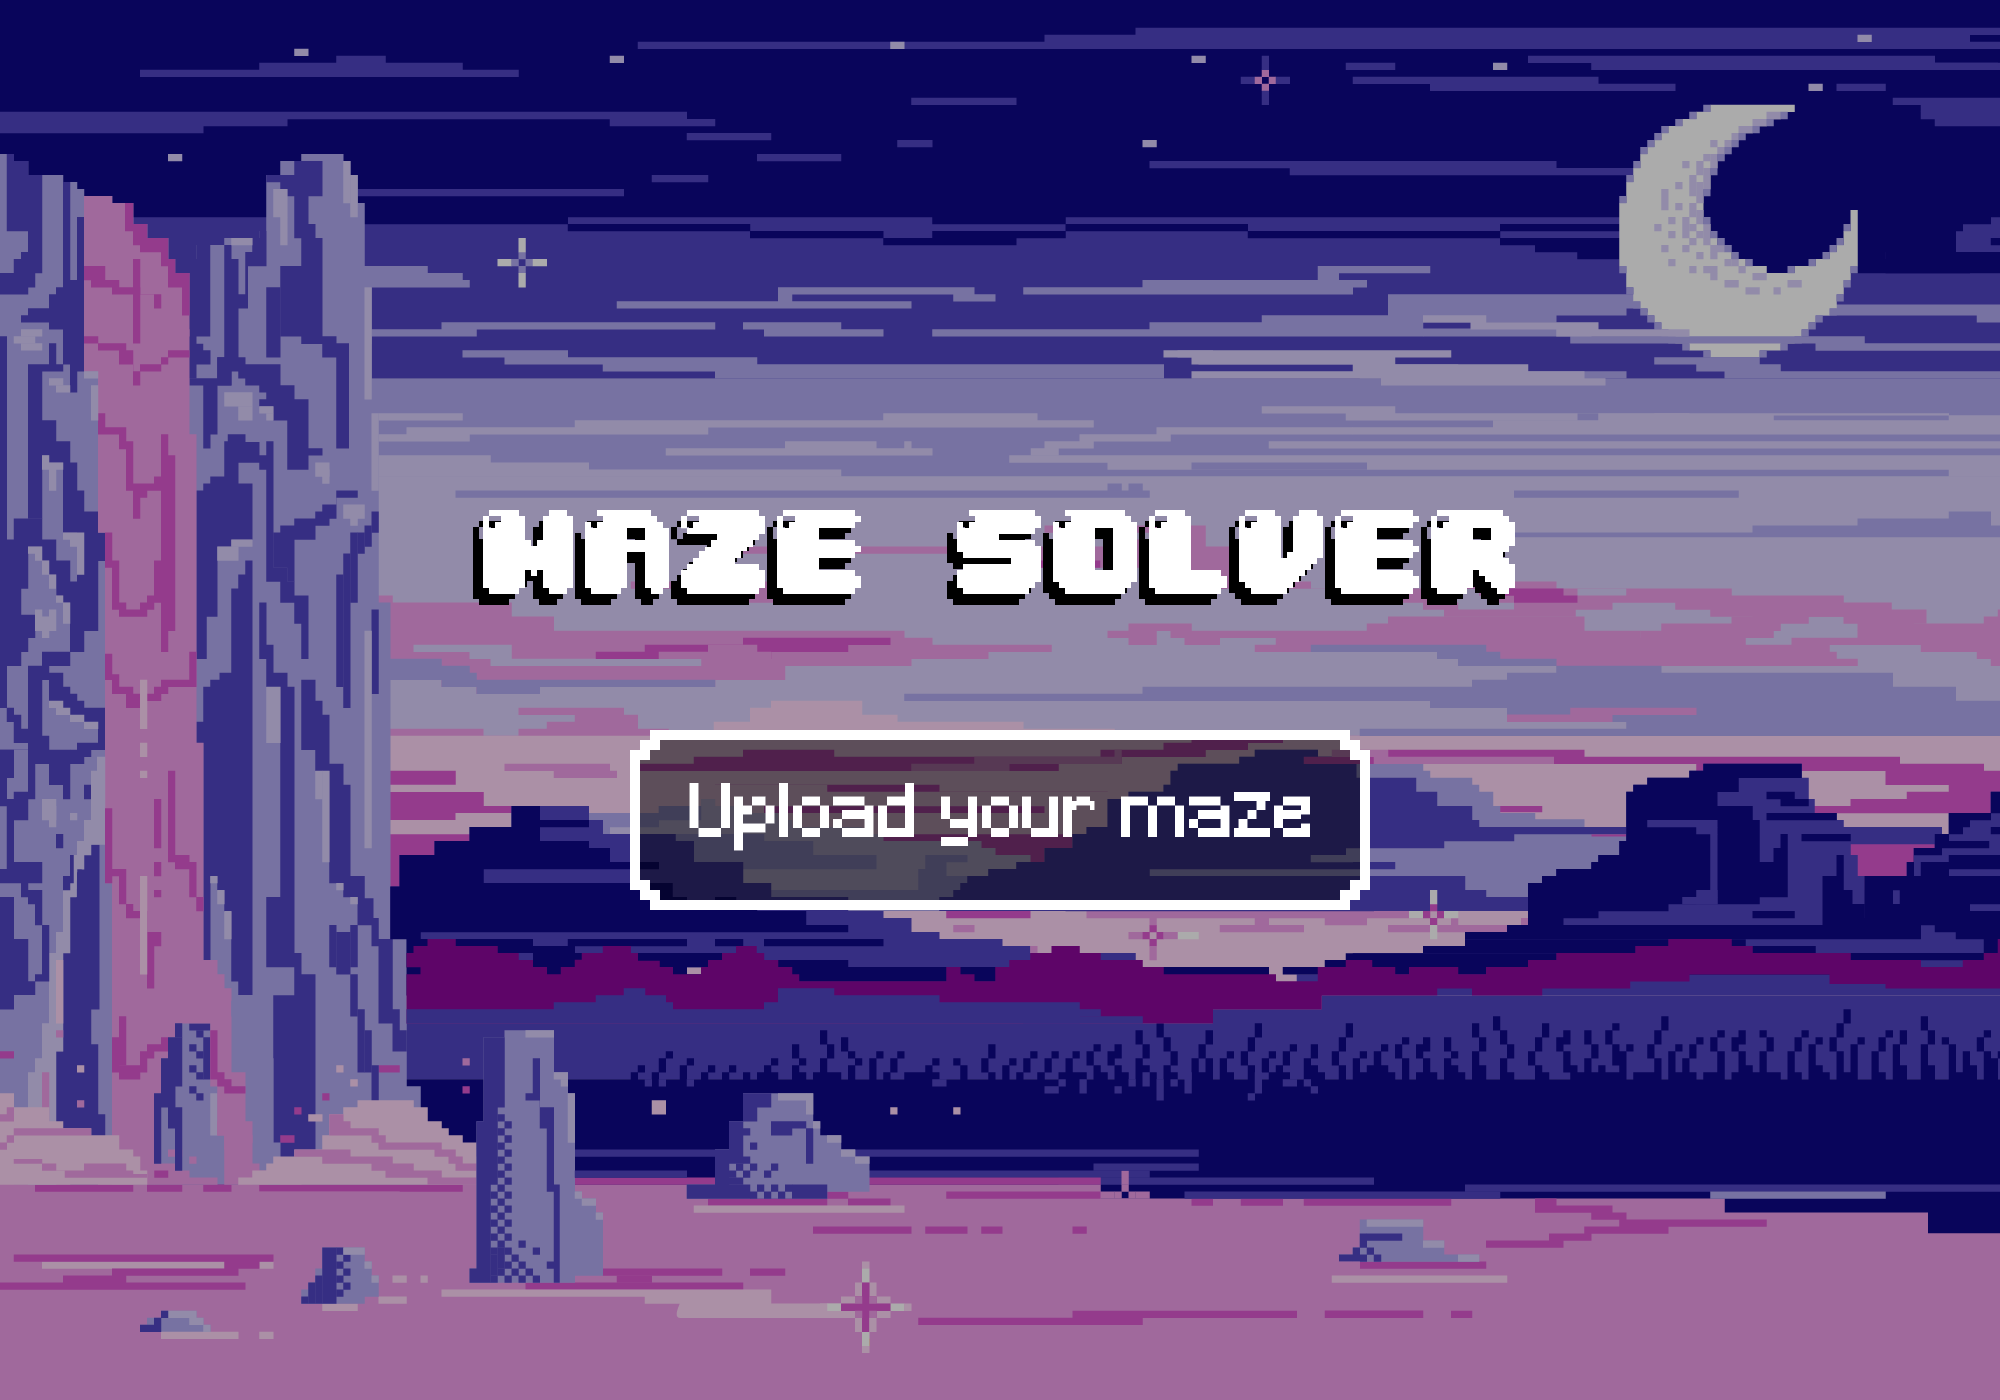
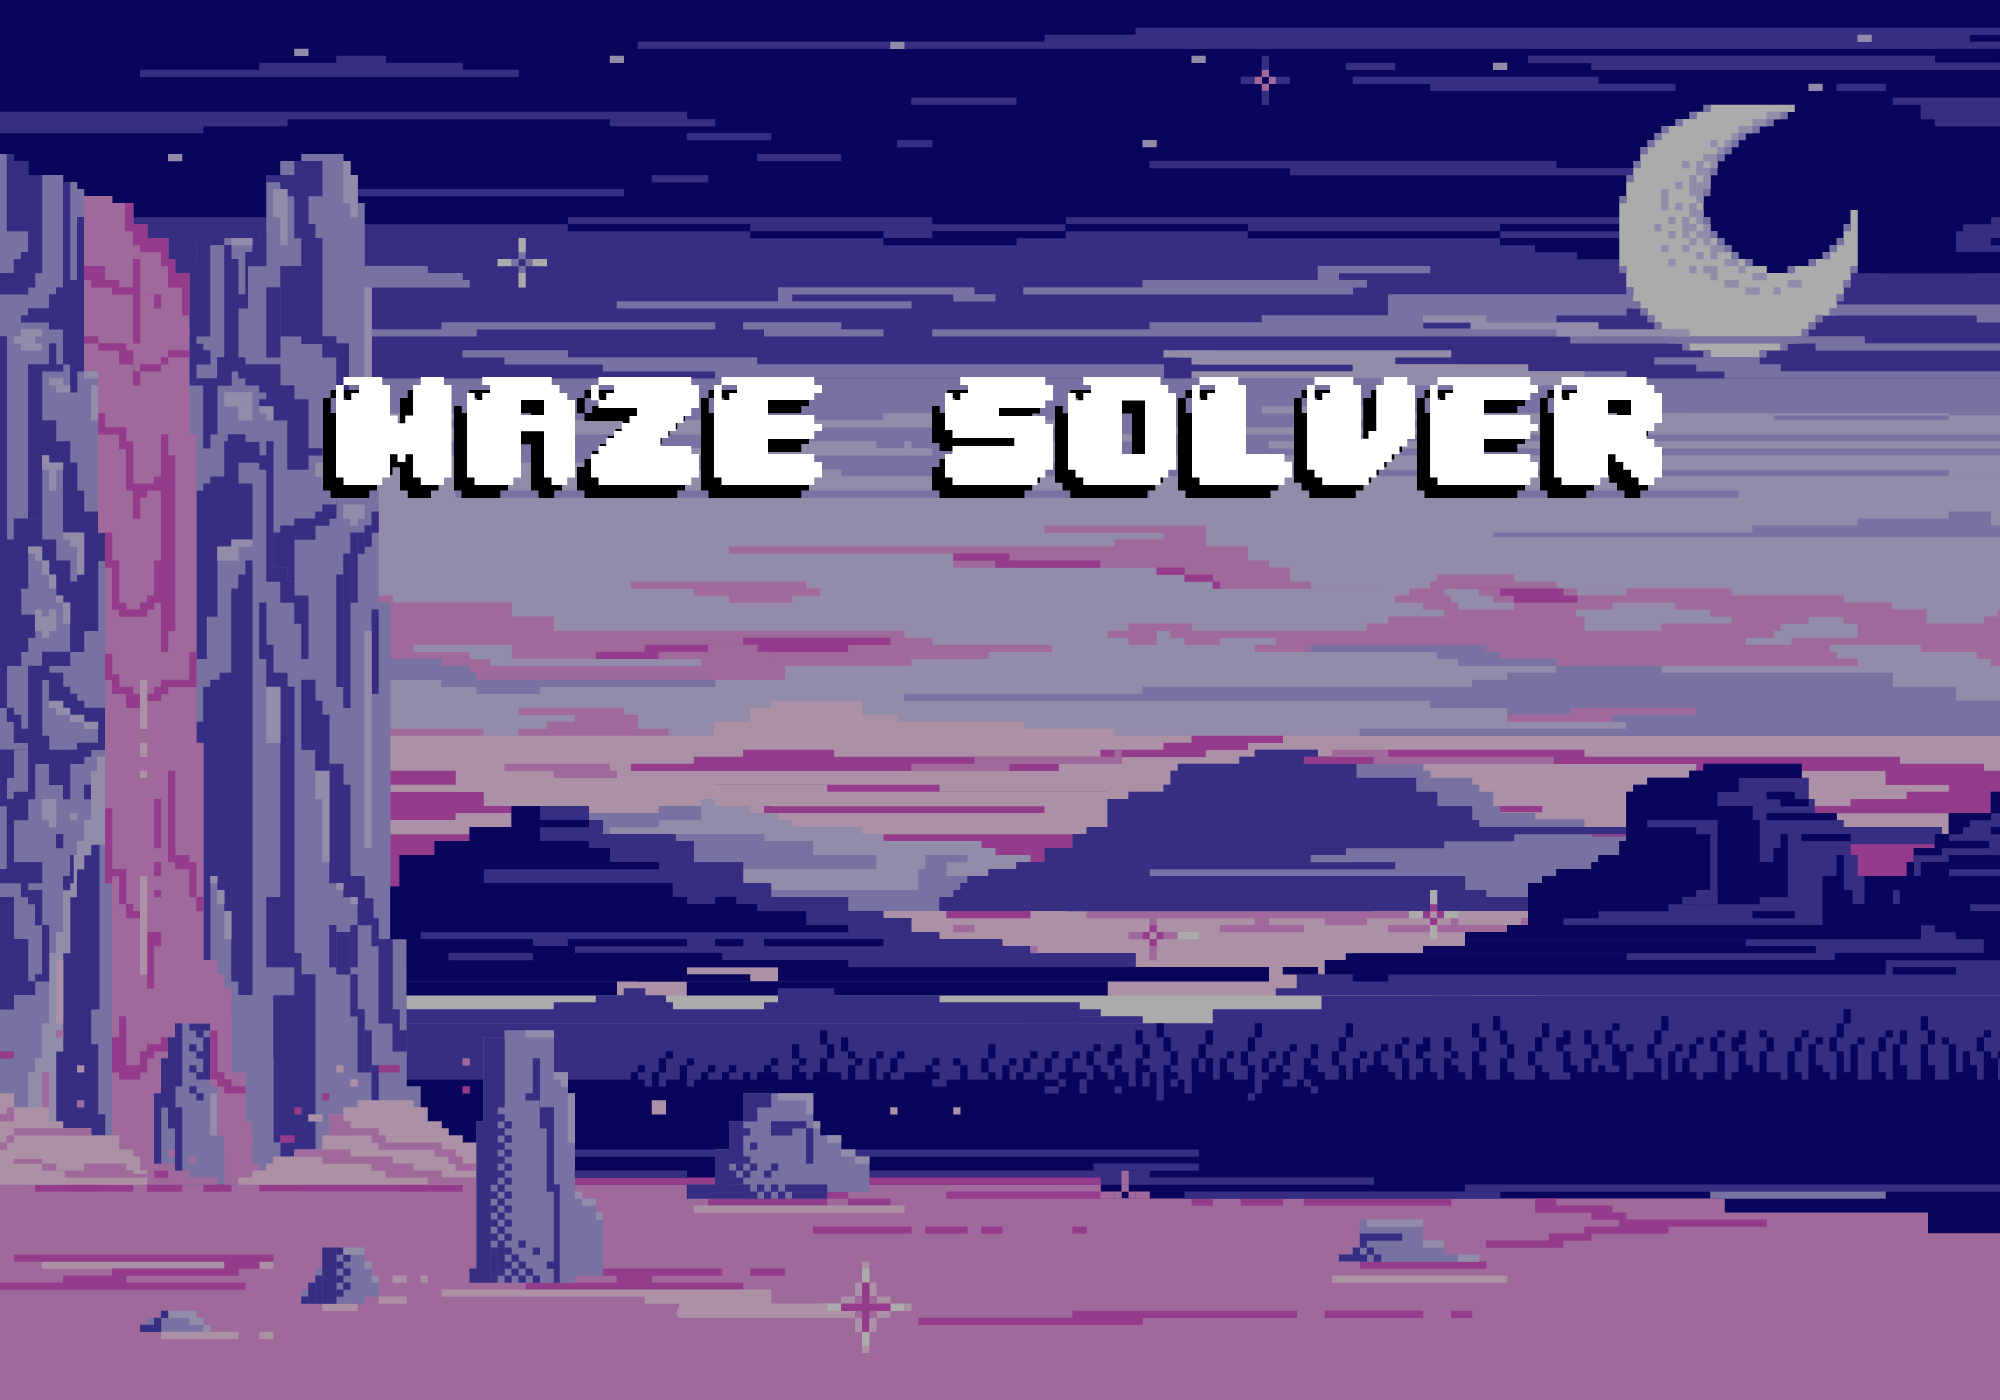
Connected views

Changed region(s): [[0.186, 0.5221, 1.0, 0.7371], [0.465, 0.2457, 0.837, 0.43], [0.155, 0.2457, 0.434, 0.43]]

diff --git a/mazesolver.py b/mazesolver.py
@@ -1,6 +1,8 @@
+from tkinter import E
 import pygame, sys, random
 from mazeprocess import *
-from colors import colors
+from data import *
+from button import Button
 
 size = (1000, 700)
 
@@ -9,13 +11,41 @@ class Game(object):
     
     def __init__(self):
         self.solved_maze = False
+        self.path = ''
+        self.solving = False
         self.page = 'home'              #posibles páginas: home, maze
-        self.solve_method =''           #posibles methods: a:anchura, ae:a*, bdcu:búsqeda de costo uniforme, bg:búsqueda greedy
+        self.solve_method =''          #posibles methods: a:anchura, ae:a*, bdcu:búsqeda de costo uniforme, bg:búsqueda greedy
                                         #p: profundidad, pi:profundidad iterativa, '': no se ha escogido
-        self.path = 'static/mazes/maze_50x50.csv'
-        self.m, self.n = maze_size(self.path)          #tamaño mxn del maze
-        self.cell_size, self.x_start, self.y_start = display_size(self.m, self.n)
-        self.color = random.choice(list(colors.keys()))
+        
+        ##Creamos todos los botones necesarios y los inicializamos
+        self.upload_maze = Button(images_data['upload_maze'][0], images_data['upload_maze'][1], 'upload_maze')
+        self.b_5x5 = Button(images_data['maze_size_buttons'][0], images_data['maze_size_buttons'][1][0], 'b_5x5')
+        self.b_10x10 = Button(images_data['maze_size_buttons'][0], images_data['maze_size_buttons'][1][1], 'b_10x10')
+        self.b_50x50 = Button(images_data['maze_size_buttons'][0], images_data['maze_size_buttons'][1][2], 'b_50x50')
+        self.b_100x100 = Button(images_data['maze_size_buttons'][0], images_data['maze_size_buttons'][1][3], 'b_100x100')
+        self.b_p = Button(images_data['menu_buttons'][0], images_data['menu_buttons'][1][0], 'b_p')
+        self.b_a = Button(images_data['menu_buttons'][0], images_data['menu_buttons'][1][1], 'b_a')
+        self.b_pi = Button(images_data['menu_buttons'][0], images_data['menu_buttons'][1][2], 'b_pi')
+        self.b_bdcu = Button(images_data['menu_buttons'][0], images_data['menu_buttons'][1][3], 'b_bdcu')
+        self.b_bg = Button(images_data['menu_buttons'][0], images_data['menu_buttons'][1][4], 'b_bg')
+        self.b_ae = Button(images_data['menu_buttons'][0], images_data['menu_buttons'][1][5], 'b_ae')
+        self.b_home = Button(images_data['home'][0], images_data['home'][1], 'b_home')
+        self.b_run = Button(images_data['runmaze'][0], images_data['runmaze'][1], 'b_run')
+        self.b_run.pressed(images_data['runmaze'][0], 'b_runpressed')
+        self.click_upload_maze = False
+        self.click_b_5x5 = False
+        self.click_b_10x10 = False
+        self.click_b_50x50 = False
+        self.click_b_100x100 = False
+        self.click_b_p = False
+        self.click_b_a = False
+        self.click_b_pi = False
+        self.click_b_bdcu = False
+        self.click_b_bg = False
+        self.click_b_ae = False
+        self.click_b_home = False
+        self.click_b_run = False
+        
 
     def process_events(self):
         for event in pygame.event.get():
@@ -26,16 +56,76 @@ class Game(object):
             if self.solved_maze:
                 if event.type == pygame.MOUSEBUTTONDOWN:
                     self.__init__()
+
+            #Si no se ha resuelto mira si algún botón válido ha sido presionado
+            if not self.solved_maze: 
+                  
+                if self.page == 'home':
+                    self.click_upload_maze = self.upload_maze.button_pressed(event)
+                    self.click_b_5x5 = self.b_5x5.button_pressed(event)
+                    self.click_b_10x10 = self.b_10x10.button_pressed(event)
+                    self.click_b_50x50 = self.b_50x50.button_pressed(event)
+                    self.click_b_100x100 = self.b_100x100.button_pressed(event)
+                    
+                elif self.page == 'maze':
+                    self.click_b_home = self.b_home.button_pressed(event)
+                    
+                    if self.solve_method == '':
+                        self.click_b_p = self.b_p.button_pressed(event)
+                        self.click_b_a = self.b_a.button_pressed(event)
+                        self.click_b_pi = self.b_pi.button_pressed(event)
+                        self.click_b_bdcu = self.b_bdcu.button_pressed(event)
+                        self.click_b_bg = self.b_bg.button_pressed(event)
+                        self.click_b_ae = self.b_ae.button_pressed(event)
+                    else:
+                        self.click_b_run = self.b_run.button_pressed(event) 
         return False
 
+    
     def run_logic(self):
 
         if not self.solved_maze:
             if self.page == 'home':
-                pass
+                if self.click_upload_maze or self.click_b_5x5 or self.click_b_10x10 or self.click_b_50x50 or self.click_b_100x100:
+                    if self.click_upload_maze:
+                        upload_maze()
+                        self.path = 'static/mazes/user_maze.csv'
+                    elif self.click_b_5x5:
+                        self.path = 'static/mazes/maze_5x5.csv'
+                    elif self.click_b_10x10:
+                        self.path = 'static/mazes/maze_10x10.csv'
+                    elif self.click_b_50x50:
+                        self.path = 'static/mazes/maze_50x50.csv'
+                    elif self.click_b_100x100:
+                        self.path = 'static/mazes/maze_100x100.csv'
+                        
+                    self.m, self.n = maze_size(self.path)          #tamaño mxn del maze
+                    self.cell_size, self.x_start, self.y_start = display_size(self.m, self.n)
+                    self.color = random.choice(list(colors.keys()))
+                    self.page = 'maze'
+                    
             elif self.page == 'maze':
-                pass
-
+                if self.click_b_home:
+                    self.__init__()
+                    
+                if self.solve_method == '':
+                    if self.click_b_p:
+                        self.solve_method = 'p'
+                    elif self.click_b_a:
+                        self.solve_method = 'a'
+                    elif self.click_b_pi:
+                        self.solve_method = 'pi'
+                    elif self.click_b_bdcu:
+                        self.solve_method = 'bdcu'
+                    elif self.click_b_bg:
+                        self.solve_method = 'bg'
+                    elif self.click_b_ae:
+                        self.solve_method = 'ae'
+                else:                        
+                    if self.click_b_run:
+                        self.solving = not self.solving
+    
+    
     def display_frame(self, screen):
 
         if self.solved_maze:
@@ -51,6 +141,11 @@ class Game(object):
                 home_view = pygame.image.load('static/images/home_view.png')
                 home_view = pygame.transform.scale(home_view, size)
                 screen.blit(home_view, [0, 0])
+                self.upload_maze.draw(screen)
+                self.b_5x5.draw(screen)
+                self.b_10x10.draw(screen)
+                self.b_50x50.draw(screen)
+                self.b_100x100.draw(screen)
                 
             elif self.page == 'maze':
             ##Mostramos el maze
@@ -61,6 +156,7 @@ class Game(object):
                 
                 #fondo
                 maze_draw(screen, self.color, self.path, self.cell_size, self.x_start, self.y_start)
+                self.b_run.draw_pressed(screen, self.solving)
                 
             ##Mostramos el menú si aún no se escogío un método
                 if self.solve_method == '':
@@ -68,15 +164,25 @@ class Game(object):
                     menu = pygame.image.load('static/images/menu.png')
                     menu = pygame.transform.scale(menu, size)
                     screen.blit(menu, [0, 0])
+                    self.b_p.draw(screen)
+                    self.b_a.draw(screen)
+                    self.b_pi.draw(screen)
+                    self.b_bdcu.draw(screen)
+                    self.b_bg.draw(screen)
+                    self.b_ae.draw(screen)
                     
             ##Si no mostramos el método escogido
                 else:
                     selected_method = pygame.image.load(f"static/images/resolverpor/{self.solve_method}.png")
-                    selected_method = pygame.transform.scale(selected_method, (245, 130))
-                    screen.blit(selected_method, [740, 156])
+                    selected_method = pygame.transform.scale(selected_method, images_data['selected_method'][0])
+                    screen.blit(selected_method, images_data['selected_method'][1])
+                
+                self.b_home.draw(screen)
             
         pygame.display.flip()
-
+    
+    
+                    
 
 def main():
     pygame.init()

diff --git a/button.py b/button.py
@@ -1,0 +1,49 @@
+from turtle import position
+import pygame
+
+#button class
+class Button():
+    
+	def __init__(self, size, position, image):
+        #cargar imagenes y escalarlas
+		self.position = position
+		self.button_view = pygame.image.load(f'static/images/botones/{image}.png')
+		self.button_view = pygame.transform.scale(self.button_view, size)
+		self.rect = self.button_view.get_rect()
+		self.rect.topleft = position
+		self.clicked = False
+
+	def pressed(self, size, image_pressed):
+		self.button_pressed_view = pygame.image.load(f'static/images/botones/{image_pressed}.png')
+		self.button_pressed_view = pygame.transform.scale(self.button_pressed_view, size)
+
+	def button_pressed(self, event):
+		action = False
+		#get mouse position
+		pos = pygame.mouse.get_pos()
+
+		#check mouseover and clicked conditions
+		if self.rect.collidepoint(pos):
+			if event.type == pygame.MOUSEBUTTONDOWN and self.clicked == False:
+				self.clicked = True
+				action = True
+
+		if pygame.mouse.get_pressed()[0] == 0:
+			self.clicked = False
+		
+		pressed = action
+		return action
+
+     
+	def draw(self, surface):
+		#draw button on screen
+		surface.blit(self.button_view, self.position)
+  
+	def draw_pressed(self, surface, pressed):
+		if pressed:
+			#draw button on screen
+			surface.blit(self.button_pressed_view, self.position)
+		else:
+			#draw button on screen
+			surface.blit(self.button_view, self.position)
+      

diff --git a/data.py b/data.py
@@ -1,0 +1,22 @@
+#Colores
+colors = {     
+                #line color        background      wall
+    'blue'     :[(156, 235, 252), (88, 202, 238), (57, 58, 140)], 
+    'green'    :[(213, 255, 254), (75, 244, 189), (40, 167, 142)], 
+    'pink'     :[(254, 209, 239), (254, 188, 235), (202, 76, 195)], 
+    #'yellow'  :[(255, 246, 178), (242, 208, 86), (209, 123, 15)], 
+    'purple'   :[(242, 193, 255), (205, 127, 247), (126, 52, 165)], 
+    'lightblue':[(236, 255, 255), (132, 248, 248), (36, 106, 129)], 
+}
+
+#Tamaño de las imágenes y posiciones
+images_data = {
+                  #display size   position
+    'background' : [(1000, 700), (0, 0)],       #home, menu, maze
+    'selected_method': [(245, 130), (740, 156)],
+    'upload_maze': [(370, 90), (315, 325)],
+    'maze_size_buttons':[(180, 90), [(110, 525), (310, 525), (510, 525), (710, 525)]], 
+    'menu_buttons': [(510, 50), [(245, 75), (245, 175), (245, 275), (245, 375), (245, 475), (245, 575)]], 
+    'runmaze': [(180, 45), (772, 302)], 
+    'home': [(47, 45), (938, 639)]
+}

diff --git a/mazeprocess.py b/mazeprocess.py
@@ -1,16 +1,20 @@
 import csv, pygame
-from colors import colors
+import time
+from data import colors
 import shutil
 import tkinter, os
 import tkinter.filedialog
 
 #Función que permite al usuario subir un archivo .csv y lo guarda en static/mazes/user_maze
 def upload_maze():
-    top = tkinter.Tk()
-    top.withdraw()  
-    file_name = tkinter.filedialog.askopenfilename(parent=top, title = "Select file",filetypes = (("csv files","*.csv"), ))
-    shutil.copy(file_name, "./static/mazes/user_maze.csv")
-    top.destroy()
+    try:
+        top = tkinter.Tk()
+        top.withdraw()  
+        file_name = tkinter.filedialog.askopenfilename(parent=top, title = "Select file",filetypes = (("csv files","*.csv"), ))
+        shutil.copy(file_name, "./static/mazes/user_maze.csv")
+        top.destroy()
+    except:
+        pass
 
 #Función que dado un path de un archivo .csv retorna el tamaño (filas, columnas) del laberinto 
 def maze_size(path):
